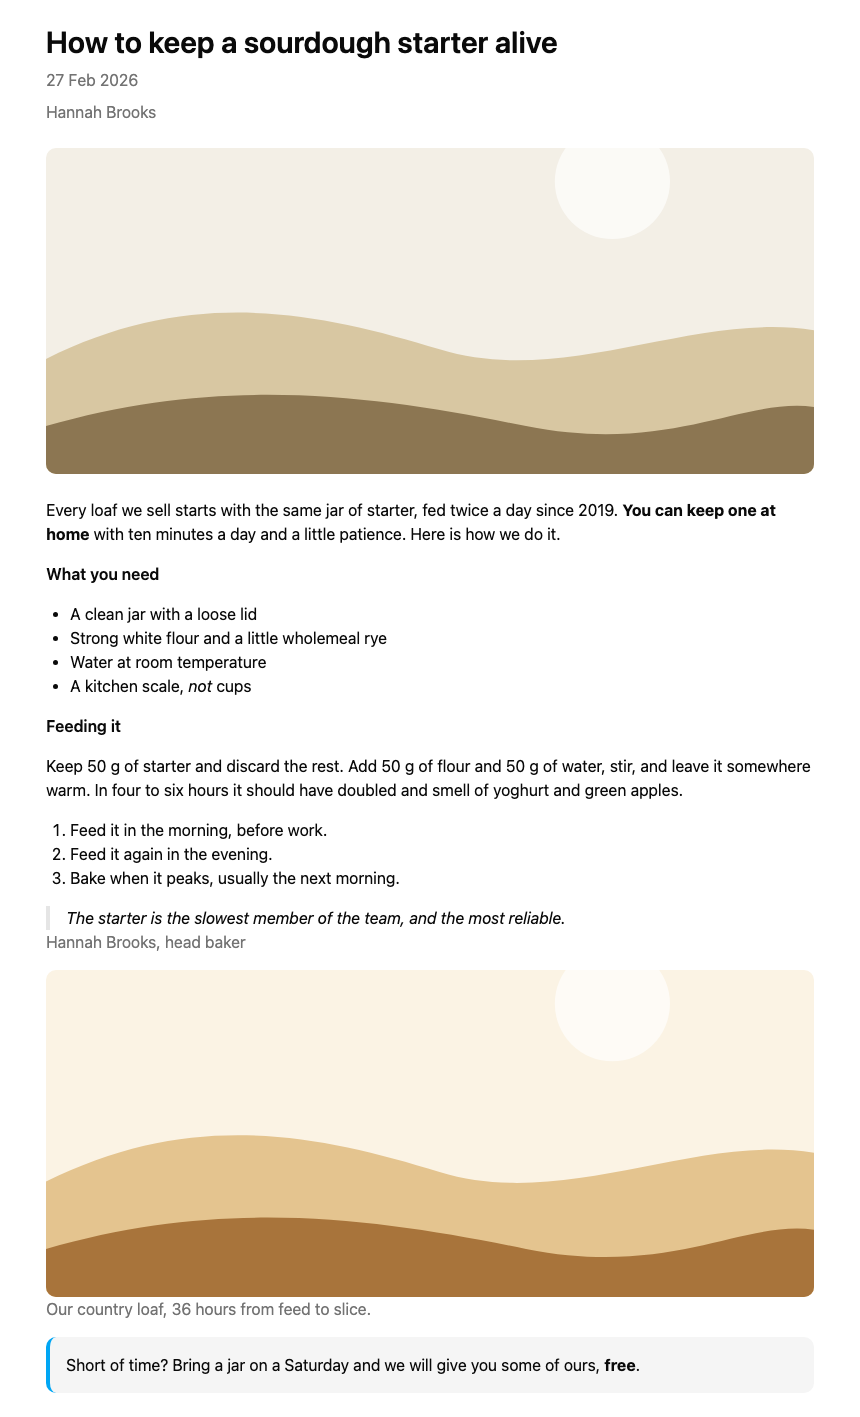
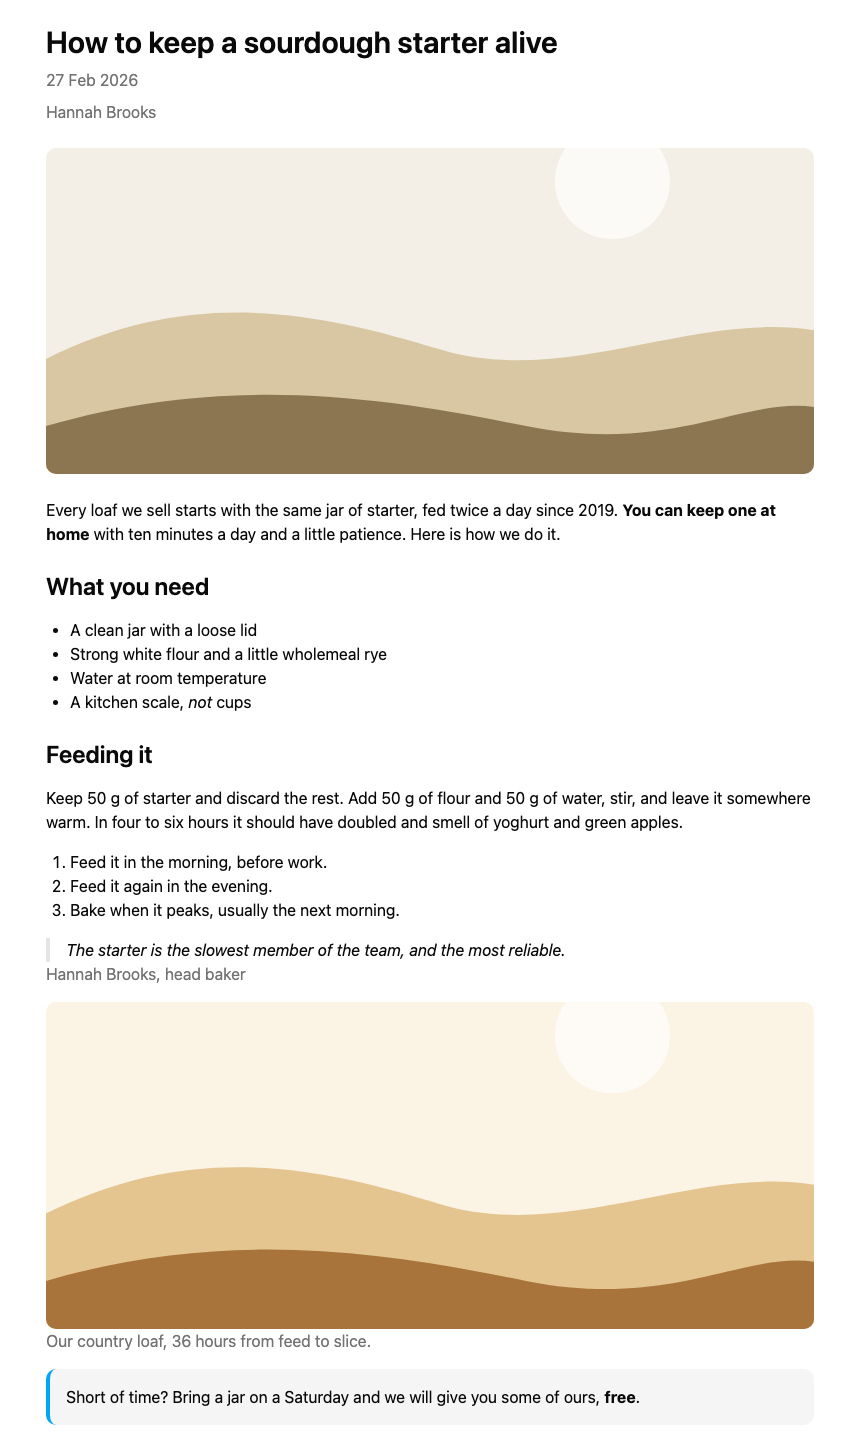
Fix three blocks the screen pictures showed
- native-account-devices: each other session's "Sign it out" sits under it, as on the web, instead of a separate list of "Sign out A web browser" buttons.
- ticketing-my-tickets: each ticket a bordered row (name, a line of type, time and state, Show code), like the other list blocks; depends on ui-button.
- content-rich-text: body headings sized by level (h2 2xl, h3 xl, h4 lg), so they stand out from the text.

Pictures redrawn.

diff --git a/packs/ticketing/blocks/ticketing-my-tickets/my-tickets.tsx b/packs/ticketing/blocks/ticketing-my-tickets/my-tickets.tsx
@@ -2,6 +2,7 @@
 // they may see, is the host's (`useMyTickets` reads through the seam).
 import type { TicketingHooks } from "@composable-os/pack-ticketing/client";
 import { eventTime, ticketStateLabel } from "@composable-os/pack-ticketing/client";
+import { Button } from "../ui-button/button.tsx";
 
 export function MyTickets({
   ticketing,
@@ -16,19 +17,32 @@ export function MyTickets({
   if (error) return <p role="alert">We could not load your tickets.</p>;
   if (!data?.items.length) return <p>You have no tickets yet.</p>;
   return (
-    <ul className="grid gap-2">
+    <ul className="grid gap-2" aria-label="Your tickets">
       {data.items.map((ticket) => (
-        <li key={ticket.id} className="flex justify-between gap-4">
-          <span>
-            {ticket.eventName ?? "Ticket"}
-            {ticket.ticketTypeName ? ` · ${ticket.ticketTypeName}` : ""}
-            {ticket.startsAt ? ` · ${eventTime(ticket)}` : ""}
-          </span>
-          <span>{ticketStateLabel(ticket.state)}</span>
+        <li
+          key={ticket.id}
+          className="flex flex-wrap items-center justify-between gap-3 rounded-md border p-3"
+        >
+          <div className="grid gap-1">
+            <strong>{ticket.eventName ?? "Ticket"}</strong>
+            <span className="text-muted-foreground text-sm">
+              {[
+                ticket.ticketTypeName,
+                ticket.startsAt ? eventTime(ticket) : null,
+                ticketStateLabel(ticket.state),
+              ]
+                .filter(Boolean)
+                .join(" · ")}
+            </span>
+          </div>
           {onShow && ticket.state === "valid" ? (
-            <button type="button" onClick={() => onShow({ id: ticket.id, code: ticket.code })}>
+            <Button
+              type="button"
+              variant="outline"
+              onClick={() => onShow({ id: ticket.id, code: ticket.code })}
+            >
               Show code
-            </button>
+            </Button>
           ) : null}
         </li>
       ))}

diff --git a/blocks/native-account-devices/devices.tsx b/blocks/native-account-devices/devices.tsx
@@ -53,20 +53,22 @@ export function SignInAndDevices({
       <List>
         {items.map((session) => {
           const words = sessionWords(session);
-          return <Row key={session.id} title={words.title} detail={words.detail} />;
+          // Each other session's button sits under it, as on the web: its title is in the row.
+          return (
+            <View key={session.id}>
+              <Row title={words.title} detail={words.detail} />
+              {session.current ? null : (
+                <Button
+                  quiet
+                  label="Sign it out"
+                  disabled={revoke.isPending}
+                  onPress={() => void signOutOne(session.id)}
+                />
+              )}
+            </View>
+          );
         })}
       </List>
-      {items
-        .filter((session) => !session.current)
-        .map((session) => (
-          <Button
-            key={session.id}
-            quiet
-            label={`Sign out ${sessionWords(session).title}`}
-            disabled={revoke.isPending}
-            onPress={() => void signOutOne(session.id)}
-          />
-        ))}
       <Button label="Sign out of this device" onPress={onSignOut} />
       {error ? (
         <Text style={styles.body} accessibilityRole="alert">

diff --git a/packs/content/blocks/content-rich-text/rich-text.tsx b/packs/content/blocks/content-rich-text/rich-text.tsx
@@ -19,6 +19,13 @@ import {
 import type { ReactNode } from "react";
 import { Button } from "../ui-button/button.tsx";
 
+/** A body heading's size by its level: larger than the text, smaller than the post's title. */
+const HEADING_SIZE: Record<number, string> = {
+  2: "text-2xl",
+  3: "text-xl",
+  4: "text-lg",
+};
+
 /** A block's own element, to replace the default one for its type. */
 export type BlockRenderer<T extends Block["type"]> = (props: {
   block: Extract<Block, { type: T }>;
@@ -125,7 +132,12 @@ function DefaultBlock({
       const level = Math.min(Math.max(block.level + 1, 2), 6);
       const Tag = `h${level}` as "h2" | "h3" | "h4" | "h5" | "h6";
       return (
-        <Tag id={anchor} data-block="heading" data-level={block.level} className="font-semibold">
+        <Tag
+          id={anchor}
+          data-block="heading"
+          data-level={block.level}
+          className={`mt-2 font-semibold ${HEADING_SIZE[level] ?? "text-base"}`}
+        >
           <Runs content={block.content} />
         </Tag>
       );

diff --git a/apps/docs/src/content/docs/packs/content/screens.md b/apps/docs/src/content/docs/packs/content/screens.md
@@ -32,7 +32,7 @@ Native. Rich text for the mobile app (stage 28, ADR 0440): a post's body drawn b
 
 Web. One post, for a site's /blog/&lt;slug&gt; page (stage 28): its title, date, cover and body, as the public reads it (`usePost`: the published version only, ADR 0442). [The block](/reference/blocks/content-post/).
 
-<img class="cos-screen" src="/screens/content-post.png" alt="content-post, drawn with dummy data" width="860" height="1417" loading="lazy" decoding="async" />
+<img class="cos-screen" src="/screens/content-post.png" alt="content-post, drawn with dummy data" width="860" height="1449" loading="lazy" decoding="async" />
 
 ### content-post-list
 
@@ -44,4 +44,4 @@ Web. The published posts, newest first, for a site's /blog page (stage 28): each
 
 Web. Rich text for the web (stage 28, ADR 0440): a post's body drawn block by block with React elements, never as HTML. [The block](/reference/blocks/content-rich-text/).
 
-<img class="cos-screen" src="/screens/content-rich-text.png" alt="content-rich-text, drawn with dummy data" width="760" height="943" loading="lazy" decoding="async" />
+<img class="cos-screen" src="/screens/content-rich-text.png" alt="content-rich-text, drawn with dummy data" width="760" height="975" loading="lazy" decoding="async" />

diff --git a/apps/docs/src/content/docs/reference/blocks/content-rich-text.md b/apps/docs/src/content/docs/reference/blocks/content-rich-text.md
@@ -6,7 +6,7 @@ editUrl: false
 
 Rich text for the web (stage 28, ADR 0440): a post's body drawn block by block with React elements, never as HTML. Every block type and mark of the platform's schema has its element here; restyle them with the classes, or pass `components` to use the app's own for any of them. Nothing is injected as markup: text is React text (escaped by React), a link's address is the host's checked one, a picture is the host's media route, and a video is played from YouTube's or Vimeo's own player address built from the id, never from the raw URL. An embed that is neither is a link.
 
-<img class="cos-screen" src="/screens/content-rich-text.png" alt="content-rich-text, drawn with dummy data" width="760" height="943" loading="lazy" decoding="async" />
+<img class="cos-screen" src="/screens/content-rich-text.png" alt="content-rich-text, drawn with dummy data" width="760" height="975" loading="lazy" decoding="async" />
 
 Drawn with dummy data.
 

diff --git a/apps/docs/src/content/docs/reference/blocks/ticketing-my-tickets.md b/apps/docs/src/content/docs/reference/blocks/ticketing-my-tickets.md
@@ -6,7 +6,7 @@ editUrl: false
 
 A signed-in customer's tickets, for a site (stage 27). Which tickets are theirs, and what of them they may see, is the host's (`useMyTickets` reads through the seam).
 
-<img class="cos-screen" src="/screens/ticketing-my-tickets.png" alt="ticketing-my-tickets, drawn with dummy data" width="640" height="256" loading="lazy" decoding="async" />
+<img class="cos-screen" src="/screens/ticketing-my-tickets.png" alt="ticketing-my-tickets, drawn with dummy data" width="640" height="532" loading="lazy" decoding="async" />
 
 Drawn with dummy data.
 
@@ -16,7 +16,7 @@ Drawn with dummy data.
 | Pack | [ticketing](/packs/ticketing/screens/) |
 | Add it | `cos add ticketing-my-tickets` |
 | Files | `my-tickets.tsx`, `LICENSE` |
-| Depends on | nothing |
+| Depends on | [ui-button](/reference/blocks/ui-button/) |
 | Packages | `@composable-os/pack-ticketing` |
 
 ## Operations it calls

diff --git a/apps/docs/src/content/docs/reference/blocks/content-post.md b/apps/docs/src/content/docs/reference/blocks/content-post.md
@@ -6,7 +6,7 @@ editUrl: false
 
 One post, for a site's /blog/&lt;slug&gt; page (stage 28): its title, date, cover and body, as the public reads it (`usePost`: the published version only, ADR 0442). An old address answers `redirect`: the page calls `onRedirect` with the address the post has now, so the site sends a 301 there. A preview link's token shows the working copy instead (`PostPreview`).
 
-<img class="cos-screen" src="/screens/content-post.png" alt="content-post, drawn with dummy data" width="860" height="1417" loading="lazy" decoding="async" />
+<img class="cos-screen" src="/screens/content-post.png" alt="content-post, drawn with dummy data" width="860" height="1449" loading="lazy" decoding="async" />
 
 Drawn with dummy data.
 

diff --git a/apps/docs/src/content/docs/packs/ticketing/screens.md b/apps/docs/src/content/docs/packs/ticketing/screens.md
@@ -32,7 +32,7 @@ Web. The events on sale, and one event's details, for a site's events page (stag
 
 Web. A signed-in customer's tickets, for a site (stage 27). [The block](/reference/blocks/ticketing-my-tickets/).
 
-<img class="cos-screen" src="/screens/ticketing-my-tickets.png" alt="ticketing-my-tickets, drawn with dummy data" width="640" height="256" loading="lazy" decoding="async" />
+<img class="cos-screen" src="/screens/ticketing-my-tickets.png" alt="ticketing-my-tickets, drawn with dummy data" width="640" height="532" loading="lazy" decoding="async" />
 
 ### ticketing-native-my-tickets
 
